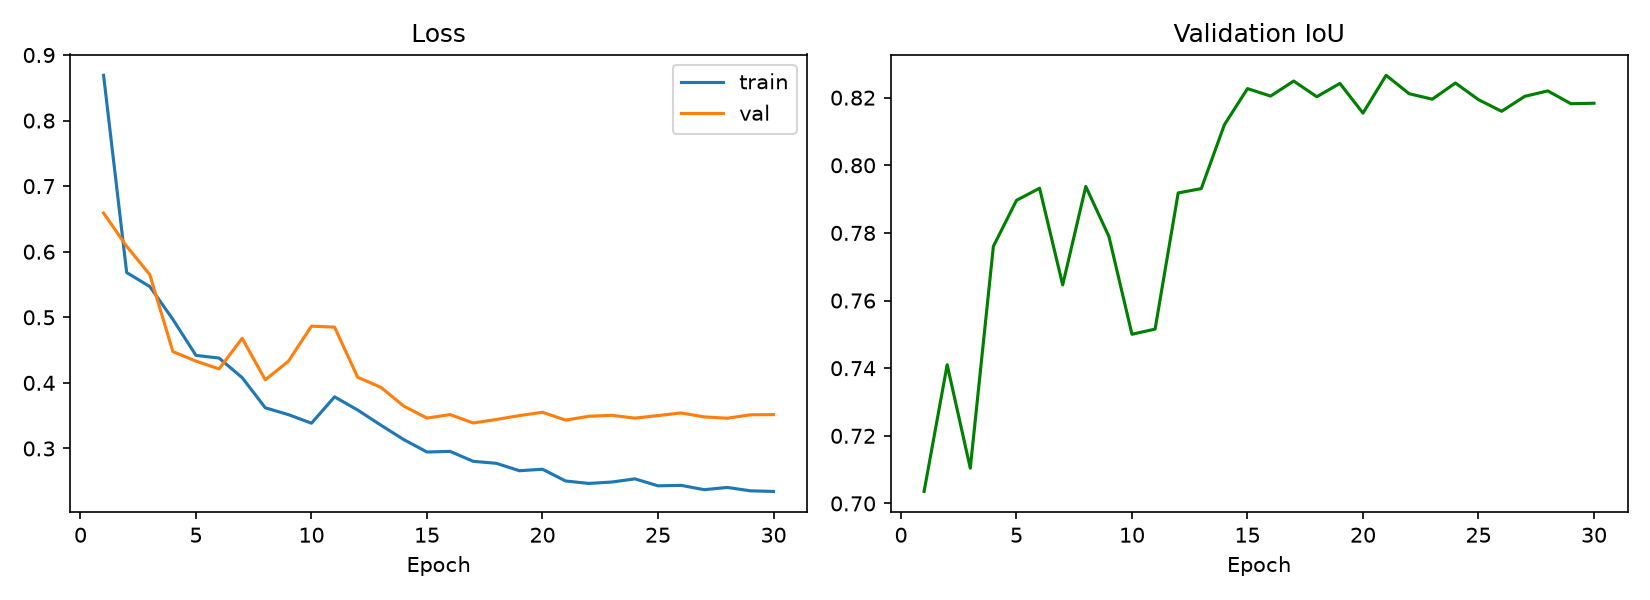
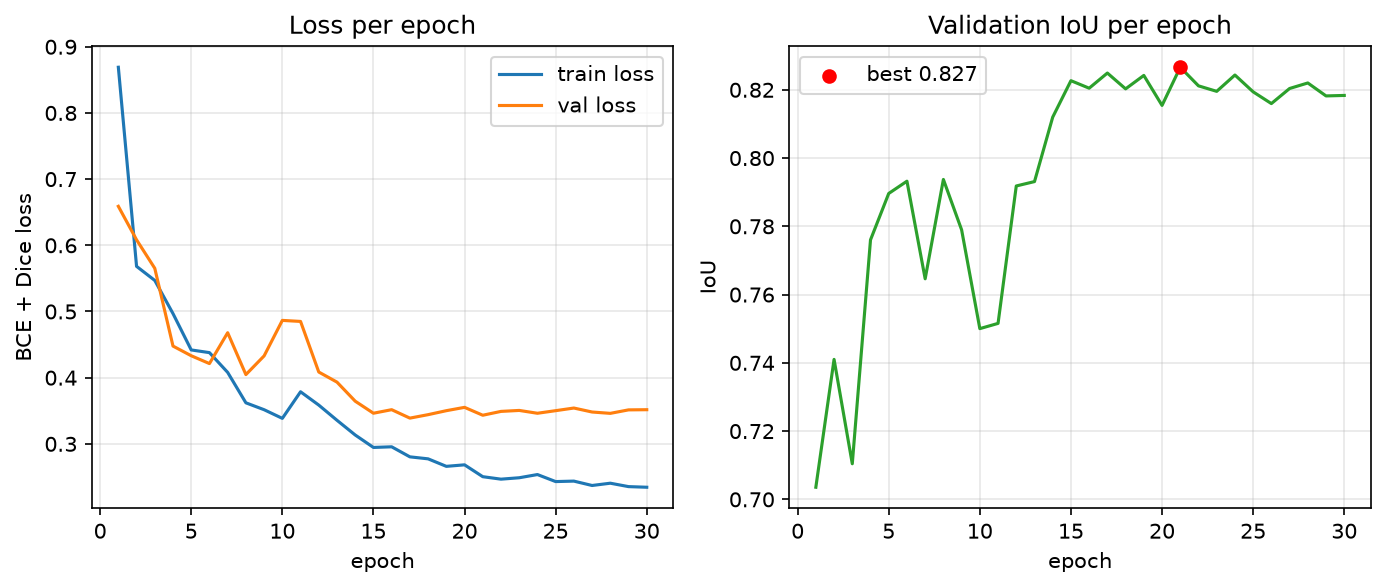
Add report README, figures and test results

diff --git a/make_figures.py b/make_figures.py
@@ -1,0 +1,280 @@
+"""
+make_figures.py - generates every figure used in README.md
+
+Run from the PROJECT ROOT (the folder that contains data/, src/, results/):
+
+    python make_figures.py
+
+Creates:
+    results/unet_curves.png
+    results/figures/data_sample.png
+    results/figures/mismatch_example.png
+    results/figures/augmentation_samples.png
+    results/figures/prediction_overlay.png
+    results/figures/test_gt_vs_pred.png
+and prints the test-set IoU / Dice so you can fill in the README.
+
+Needs: data/Image, data/Mask, data/split.csv, results/unet_history.csv,
+       checkpoints/unet_best.pth  (the last two are only needed for some figures).
+Optional:  python make_figures.py --image 1234   (stem used for prediction_overlay.png)
+"""
+import argparse
+import json
+import traceback
+from pathlib import Path
+
+import albumentations as A
+import matplotlib
+
+matplotlib.use("Agg")
+import matplotlib.pyplot as plt
+import numpy as np
+import pandas as pd
+from PIL import Image
+
+ROOT = Path(".")
+IMG_DIR = ROOT / "data" / "Image"
+MASK_DIR = ROOT / "data" / "Mask"
+SPLIT_CSV = ROOT / "data" / "split.csv"
+HIST_CSV = ROOT / "results" / "unet_history.csv"
+CKPT = ROOT / "checkpoints" / "unet_best.pth"
+FIG_DIR = ROOT / "results" / "figures"
+FIG_DIR.mkdir(parents=True, exist_ok=True)
+
+SIZE = 256
+MEAN = (0.485, 0.456, 0.406)
+STD = (0.229, 0.224, 0.225)
+
+
+# ----------------------------------------------------------------- helpers
+def find_file(folder: Path, stem: str):
+    for p in folder.glob(f"{stem}.*"):
+        return p
+    return None
+
+
+def load_image(stem):
+    p = find_file(IMG_DIR, stem)
+    return np.array(Image.open(p).convert("RGB")) if p else None
+
+
+def load_mask(stem):
+    p = find_file(MASK_DIR, stem)
+    if not p:
+        return None
+    return (np.array(Image.open(p).convert("L")) > 127).astype(np.uint8)
+
+
+def overlay(img, mask, alpha=0.5):
+    out = img.copy()
+    m = mask == 1
+    out[m] = ((1 - alpha) * img[m] + alpha * np.array([0, 0, 255])).astype(np.uint8)
+    return out
+
+
+def load_split():
+    df = pd.read_csv(SPLIT_CSV)
+    cols = {c.lower(): c for c in df.columns}
+    split_col = next((cols[c] for c in ("split", "set", "subset", "partition") if c in cols), None)
+    id_col = next((cols[c] for c in ("stem", "id", "name", "image", "filename", "file") if c in cols),
+                  df.columns[0])
+    if split_col is None:
+        raise SystemExit(f"Could not find a split column in {SPLIT_CSV}. Columns: {list(df.columns)}")
+    df["_stem"] = df[id_col].astype(str).map(lambda s: Path(s).stem)
+    df["_split"] = df[split_col].astype(str).str.lower().replace({"valid": "val", "validation": "val"})
+    return {s: df.loc[df["_split"] == s, "_stem"].tolist() for s in ("train", "val", "test")}
+
+
+def save(fig, path):
+    fig.savefig(path, dpi=150, bbox_inches="tight")
+    plt.close(fig)
+    print(f"  saved {path}")
+
+
+def get_model():
+    from src.predict import load_model
+
+    model = load_model(str(CKPT), "unet")
+    model.eval()
+    return model
+
+
+def forward_256(model, img):
+    """Exactly the evaluation protocol: resize to 256, normalise, sigmoid."""
+    import torch
+
+    dev = next(model.parameters()).device
+    x = A.Compose([A.Resize(SIZE, SIZE), A.Normalize(MEAN, STD)])(image=img)["image"]
+    x = torch.from_numpy(x.transpose(2, 0, 1)).float().unsqueeze(0).to(dev)
+    with torch.no_grad():
+        return torch.sigmoid(model(x))[0, 0].cpu().numpy()
+
+
+# ----------------------------------------------------------------- figures
+def fig_curves():
+    df = pd.read_csv(HIST_CSV)
+    low = {c.lower(): c for c in df.columns}
+
+    def pick(*names):
+        for n in names:
+            for k, v in low.items():
+                if n in k:
+                    return v
+        return None
+
+    ep = pick("epoch")
+    x = df[ep] if ep else np.arange(1, len(df) + 1)
+    tl, vl, vi = pick("train_loss", "train loss"), pick("val_loss", "val loss"), pick("val_iou", "iou")
+    if vi is None:
+        raise RuntimeError(f"No IoU column found. Columns: {list(df.columns)}")
+
+    fig, ax = plt.subplots(1, 2, figsize=(11, 4))
+    if tl:
+        ax[0].plot(x, df[tl], label="train loss")
+    if vl:
+        ax[0].plot(x, df[vl], label="val loss")
+    ax[0].set(title="Loss per epoch", xlabel="epoch", ylabel="BCE + Dice loss")
+    ax[0].legend()
+    ax[0].grid(alpha=0.3)
+
+    ax[1].plot(x, df[vi], color="tab:green")
+    b = int(df[vi].values.argmax())
+    ax[1].scatter([x.iloc[b] if hasattr(x, "iloc") else x[b]], [df[vi].iloc[b]], color="red", zorder=3,
+                  label=f"best {df[vi].iloc[b]:.3f}")
+    ax[1].set(title="Validation IoU per epoch", xlabel="epoch", ylabel="IoU")
+    ax[1].legend()
+    ax[1].grid(alpha=0.3)
+    save(fig, ROOT / "results" / "unet_curves.png")
+
+
+def fig_data_sample(splits):
+    stem = splits["train"][0]
+    img, m = load_image(stem), load_mask(stem)
+    fig, ax = plt.subplots(1, 2, figsize=(10, 4))
+    ax[0].imshow(img); ax[0].set_title(f"Image {stem}")
+    ax[1].imshow(m, cmap="gray"); ax[1].set_title("Ground-truth mask (white = flood)")
+    for a in ax:
+        a.axis("off")
+    save(fig, FIG_DIR / "data_sample.png")
+
+
+def fig_mismatch():
+    stem = "14"
+    ip, mp = find_file(IMG_DIR, stem), find_file(MASK_DIR, stem)
+    if not (ip and mp):
+        raise RuntimeError("Image/Mask 14 not found - edit `stem` in fig_mismatch() to another bad pair.")
+    img, m = Image.open(ip).convert("RGB"), Image.open(mp).convert("L")
+    fig, ax = plt.subplots(1, 2, figsize=(10, 4))
+    ax[0].imshow(img); ax[0].set_title(f"Image {stem}: {img.size[0]}x{img.size[1]}")
+    ax[1].imshow(m, cmap="gray"); ax[1].set_title(f"Mask {stem}: {m.size[0]}x{m.size[1]}  (size mismatch)")
+    for a in ax:
+        a.axis("off")
+    save(fig, FIG_DIR / "mismatch_example.png")
+
+
+def fig_augmentation(splits):
+    rng = np.random.default_rng(0)
+    stems = list(rng.choice(splits["train"], 4, replace=False))
+    fig, ax = plt.subplots(4, 3, figsize=(9, 12))
+    for r, stem in enumerate(stems):
+        t = A.Compose([
+            A.Resize(SIZE, SIZE),
+            A.HorizontalFlip(p=0.5),
+            A.VerticalFlip(p=1.0 if r == 3 else 0.2),  # last row: forced vertical flip
+            A.RandomBrightnessContrast(p=0.3),
+        ])
+        out = t(image=load_image(stem), mask=load_mask(stem))
+        i, m = out["image"], out["mask"]
+        for c, (pic, title, cmap) in enumerate([(i, "image", None), (m, "mask", "gray"), (overlay(i, m), "overlay", None)]):
+            ax[r, c].imshow(pic, cmap=cmap)
+            ax[r, c].axis("off")
+            if r == 0:
+                ax[r, c].set_title(title)
+    save(fig, FIG_DIR / "augmentation_samples.png")
+
+
+def fig_prediction(splits, stem):
+    from src.predict import predict
+
+    model = get_model()
+    stem = stem or splits["test"][0]
+    img = load_image(stem)
+    mask = predict(model, Image.fromarray(img))
+    pct = mask.mean() * 100
+    fig, ax = plt.subplots(1, 3, figsize=(14, 4.5))
+    ax[0].imshow(img); ax[0].set_title("Original")
+    ax[1].imshow(mask, cmap="gray"); ax[1].set_title("Predicted flood mask")
+    ax[2].imshow(overlay(img, mask)); ax[2].set_title(f"Overlay - {pct:.1f}% flooded")
+    for a in ax:
+        a.axis("off")
+    save(fig, FIG_DIR / "prediction_overlay.png")
+    print(f"  image {stem}: {pct:.1f}% flooded  <- use this number in the README caption")
+
+
+def eval_test_and_fig(splits):
+    model = get_model()
+    rows, TP, FP, FN = [], 0, 0, 0
+    cache = {}
+    for stem in splits["test"]:
+        img, gt = load_image(stem), load_mask(stem)
+        if img is None or gt is None or img.shape[:2] != gt.shape[:2]:
+            print(f"  skipping {stem} (missing or mismatched)")
+            continue
+        p = forward_256(model, img)
+        pred = (p > 0.5).astype(np.uint8)
+        g = A.Resize(SIZE, SIZE)(image=img, mask=gt)
+        gt256, img256 = g["mask"], g["image"]
+        tp = int(((pred == 1) & (gt256 == 1)).sum())
+        fp = int(((pred == 1) & (gt256 == 0)).sum())
+        fn = int(((pred == 0) & (gt256 == 1)).sum())
+        TP, FP, FN = TP + tp, FP + fp, FN + fn
+        rows.append((stem, tp / max(tp + fp + fn, 1)))
+        cache[stem] = (img256, gt256, pred)
+
+    iou = TP / (TP + FP + FN)
+    dice = 2 * TP / (2 * TP + FP + FN)
+    prec, rec = TP / (TP + FP), TP / (TP + FN)
+    res = dict(n_images=len(rows), test_iou=iou, test_dice=dice, test_precision=prec, test_recall=rec)
+    (ROOT / "results" / "unet_test_metrics.json").write_text(json.dumps(res, indent=2))
+    print("\n  TEST SET (U-Net):", json.dumps({k: round(v, 3) if isinstance(v, float) else v for k, v in res.items()}))
+
+    # show the image whose own IoU is closest to the overall test IoU
+    stem, s_iou = min(rows, key=lambda r: abs(r[1] - iou))
+    img256, gt256, pred = cache[stem]
+    fig, ax = plt.subplots(1, 3, figsize=(14, 4.5))
+    ax[0].imshow(img256); ax[0].set_title(f"Image {stem}")
+    ax[1].imshow(gt256, cmap="gray"); ax[1].set_title("Ground truth")
+    ax[2].imshow(pred, cmap="gray"); ax[2].set_title(f"Prediction (IoU = {s_iou:.3f})")
+    for a in ax:
+        a.axis("off")
+    save(fig, FIG_DIR / "test_gt_vs_pred.png")
+    print(f"  figure image {stem}: IoU = {s_iou:.3f}  <- use this number in the README caption")
+
+
+# ----------------------------------------------------------------- main
+def step(name, fn, *args):
+    print(f"[{name}]")
+    try:
+        fn(*args)
+    except Exception:
+        print(f"  FAILED:\n{traceback.format_exc()}")
+
+
+if __name__ == "__main__":
+    ap = argparse.ArgumentParser()
+    ap.add_argument("--image", default=None, help="stem for prediction_overlay.png (default: first test image)")
+    a = ap.parse_args()
+
+    splits = load_split()
+    print({k: len(v) for k, v in splits.items()})
+
+    step("curves", fig_curves)
+    step("data sample", fig_data_sample, splits)
+    step("mismatch example", fig_mismatch)
+    step("augmentation samples", fig_augmentation, splits)
+    if CKPT.exists():
+        step("prediction overlay", fig_prediction, splits, a.image)
+        step("test metrics + gt vs pred", eval_test_and_fig, splits)
+    else:
+        print(f"\n{CKPT} not found - skipping the two model-based figures.")
+    print("\nDone. Now: git add readme.md results/ && git commit && git push")

diff --git a/readme.md b/readme.md
@@ -13,7 +13,11 @@
 | **Report** | This document (Background, Methodology, Results, Visuals below) |
 
 <p align="center">
+<<<<<<< Updated upstream
   <img src="results/figures/prediction_overlay.png" width="95%" alt="Original image, predicted flood mask, and overlay showing 27.0% flooded"><br>
+=======
+  <img src="results/figures/prediction_overlay.png" width="95%" alt="Original image, predicted flood mask, and overlay showing the flooded percentage"><br>
+>>>>>>> Stashed changes
   <em>Model output on an unseen drone image: original, predicted mask, blue overlay and the flooded percentage.</em>
 </p>
 
@@ -74,7 +78,11 @@ Train a segmentation network that reaches strong overlap with human-drawn flood 
 
 1. **Image/mask size mismatches.** For 7 stems the mask has a different resolution from its image. Some are swapped pairs (14 and 15, 2052 and 2053: image 14 matches mask 15 and vice versa). Training on these would silently teach the network wrong labels, so they were removed.
 
+<<<<<<< Updated upstream
    <p align="center"><img src="results/figures/mismatch_example.png" width="45%" alt="Mismatched image and mask"></p>
+=======
+   <p align="center"><img src="results/figures/mismatch_example.png" width="60%" alt="Mismatched image and mask"></p>
+>>>>>>> Stashed changes
 
 2. **Masks are not truly binary.** The masks were saved with anti-aliasing, so besides 0 and 255 they contain intermediate grays. In the first mask we inspected, 114,928 pixels were 255, 361,968 were 0, and **15,147 pixels (about 3.1%) were in between**. We binarise with `mask > 127`.
 
@@ -225,11 +233,19 @@ The best checkpoint (epoch 21) is slightly better than the final epoch (0.827 vs
 
 ### 4.3 Sample outputs
 
+<<<<<<< Updated upstream
 **Prediction on an unseen image.** Flooded area estimated at 27.0%:
 
 <p align="center"><img src="results/figures/prediction_overlay.png" width="95%" alt="Prediction overlay"></p>
 
 **Ground truth vs prediction on a test-split image** (IoU = 0.832, close to the overall validation IoU):
+=======
+**Prediction on an unseen image.** The flooded percentage is shown in the figure title:
+
+<p align="center"><img src="results/figures/prediction_overlay.png" width="95%" alt="Prediction overlay"></p>
+
+**Ground truth vs prediction on a test-split image** (the per-image IoU is shown in the figure title):
+>>>>>>> Stashed changes
 
 <p align="center"><img src="results/figures/test_gt_vs_pred.png" width="95%" alt="Ground truth versus prediction"></p>
 
@@ -237,9 +253,17 @@ The best checkpoint (epoch 21) is slightly better than the final epoch (0.827 vs
 
 | Model | Test IoU | Test Dice |
 |---|---|---|
+<<<<<<< Updated upstream
 | U-Net (ResNet34) | TBD | TBD |
 | DeepLabV3+ (ResNet34) | TBD | TBD |
 
+=======
+| U-Net (ResNet34) | **0.792** | **0.884** |
+| DeepLabV3+ (ResNet34) | TBD | TBD |
+
+On the 43 test images the U-Net also reaches precision 0.868 and recall 0.900. Test IoU (0.792) is a little lower than validation IoU (0.827), which is expected: the checkpoint was selected on the validation set, while the test set was never used for any decision. Recall is again higher than precision, so the model still errs on the side of over-marking water.
+
+>>>>>>> Stashed changes
 > Validation numbers above were used to choose the checkpoint. The held-out **test split (43 images)** is evaluated once, at the end, to give an unbiased estimate.
 
 ---
@@ -291,6 +315,10 @@ src/
   train.py             # training loop, loss, metrics
   predict.py           # load_model, predict, predict_proba
 checkpoints/           # trained weights (NOT in Git, download separately)
+<<<<<<< Updated upstream
+=======
+make_figures.py        # regenerates every figure in results/
+>>>>>>> Stashed changes
 results/
   unet_history.csv     # per-epoch metrics
   unet_curves.png      # training curves
@@ -355,6 +383,15 @@ python -m src.train --model deeplab --epochs 30   # comparison model
 
 Training overwrites `checkpoints/<model>_best.pth`; curves and logs are saved in `results/`.
 
+<<<<<<< Updated upstream
+=======
+### Regenerate the report figures
+
+```bash
+python make_figures.py
+```
+
+>>>>>>> Stashed changes
 ### Team rules
 
 - Work on branches and merge through pull requests.
